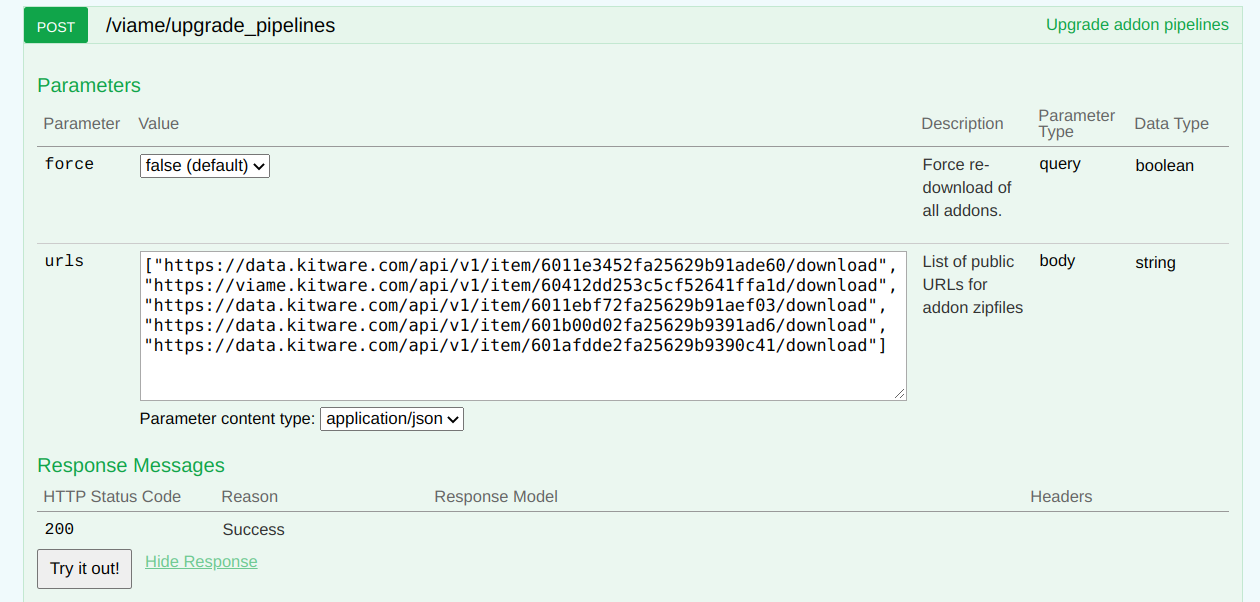
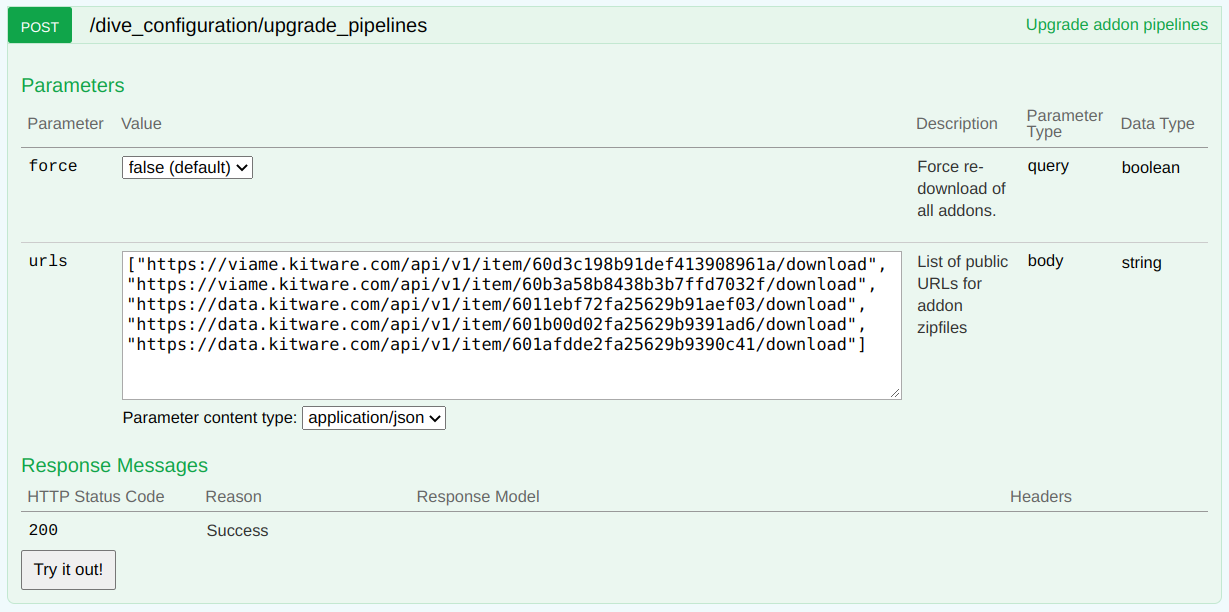
Update docs

diff --git a/docs/Deployment-Overview.md b/docs/Deployment-Overview.md
@@ -16,9 +16,9 @@ The goal of this page is to provide an overview of the ways to run VIAME or VIAM
 |----------|-----------|
 Free to use; no maintenance costs | You pay hosting and maintenance costs |
 Always up to date | Possible to configure automated updates |
-One shared enviornment for everyone | Your organization has full control over access |
+One shared environment for everyone | Your organization has full control over access |
 Our team monitors this service for errors and can respond to issues proactively | Support by email requires logs, screenshots, and other error information if applicable
-Our team can provide guidance on annotaiton and training because we have direct access to your data | Support by email usually requires example data and annotations
+Our team can provide guidance on annotation and training because we have direct access to your data | Support by email usually requires example data and annotations
 Having user data in our environment helps us understand user needs and improve the product | Feedback by email is always appreciated.
 Limited shared compute resources (2 GPUs) available to process jobs. Can be mitigated by hybrid compute options | As much compute as you pay for
 
@@ -64,7 +64,7 @@ To set up a private worker, continue to the [Provisioning Google Cloud](Deployme
 
 ## Hybrid options for storage
 
-Any instance of VIAME Web, including our public server, can connect to S3-compatible storage.  This means your lab or group could make your existing data avaible at [viame.kitware.com](https://viame.kitware.com), either privately or publicly.
+Any instance of VIAME Web, including our public server, can connect to S3-compatible storage.  This means your lab or group could make your existing data available at [viame.kitware.com](https://viame.kitware.com), either privately or publicly.
 
 | Storage Product | Support level |
 |-----------------|---------------|

diff --git a/docs/Deployment-Docker-Compose.md b/docs/Deployment-Docker-Compose.md
@@ -44,6 +44,7 @@ cd /opt/dive/docker
 cp .env.default .env
 
 # Edit the .env file
+# See configuration options below and inline comments
 nano .env
 
 # Pull pre-built images
@@ -79,7 +80,7 @@ docker-compose -f docker-compose.yml -f docker-compose.prod.yml up -d --scale gi
 
 ## Addon management
 
-After initial deployment, a DIVE server will only have basic VIAME pipelines available. VIAME optional patches are installed and upgraded using a celery task that must be triggered by hand. Run this by issueing a `POST /api/v1/viame/upgrade_pipelines` request from the swagger UI at `/api/v1` .
+After initial deployment, a DIVE server will only have basic VIAME pipelines available. VIAME optional patches are installed and upgraded using a celery task that must be triggered by hand. Run this by issuing a <u>`POST /dive_configuration/upgrade_pipelines`</u> request from the swagger UI at `http://{domain}/api/v1` .
 
 * Whether you `force` or not, only those pipelines from addons from the exact urls passed will be enabled on the server.
 * An old addon can be disabled by simply omitting its download from the upgrade payload.

diff --git a/docs/Deployment-Provision.md b/docs/Deployment-Provision.md
@@ -98,9 +98,9 @@ These are all the variables that can be provided with `--extra-vars` along with 
 
 | Variable | Default | Description |
 |----------|---------|-------------|
-| run_server | `no` | Set `run_server=yes` for scenario 1. |
-| run_viame_cli | `no` | Set `run_viame_cli=yes` for scenario 2. |
-| run_worker_container | `no` | Set `run_worker_container=yes` for scenario 3. |
+| run_server | `no` | Set `run_server=yes` for scenario 1 (deploy your own) |
+| run_viame_cli | `no` | Set `run_viame_cli=yes` for scenario 2 (VIAME CLI) |
+| run_worker_container | `no` | Set `run_worker_container=yes` for scenario 3 (standalone worker) |
 | viame_bundle_url | latest bundle url | Optional for scenario 2 & 3.  Change to install a different version of VIAME.  This should be a link to the latest Ubuntu Desktop (18/20) binaries from viame.kitware.com (Mirror 1) |
 | DIVE_USERNAME | null | Required for scenario 3. Username to start private queue processor |
 | DIVE_PASSWORD | null | Required for scenario 3. Password for private queue processor |

diff --git a/docs/Command-Line-Tools.md b/docs/Command-Line-Tools.md
@@ -1,8 +1,10 @@
-# Command Line Tools
+# DIVE Command Line Tools
 
-> **NOTE** this is an experimental feature with an unstable API.
+!!! note
 
-Some of the DIVE data conversion features are also exposed through `dive`.
+    This page is **not related** to the VIAME command line (i.e. `kwiver`, `viame_train_detector`)
+
+Some of the DIVE data conversion features are exposed through `dive`.  
 
 ## Features
 
